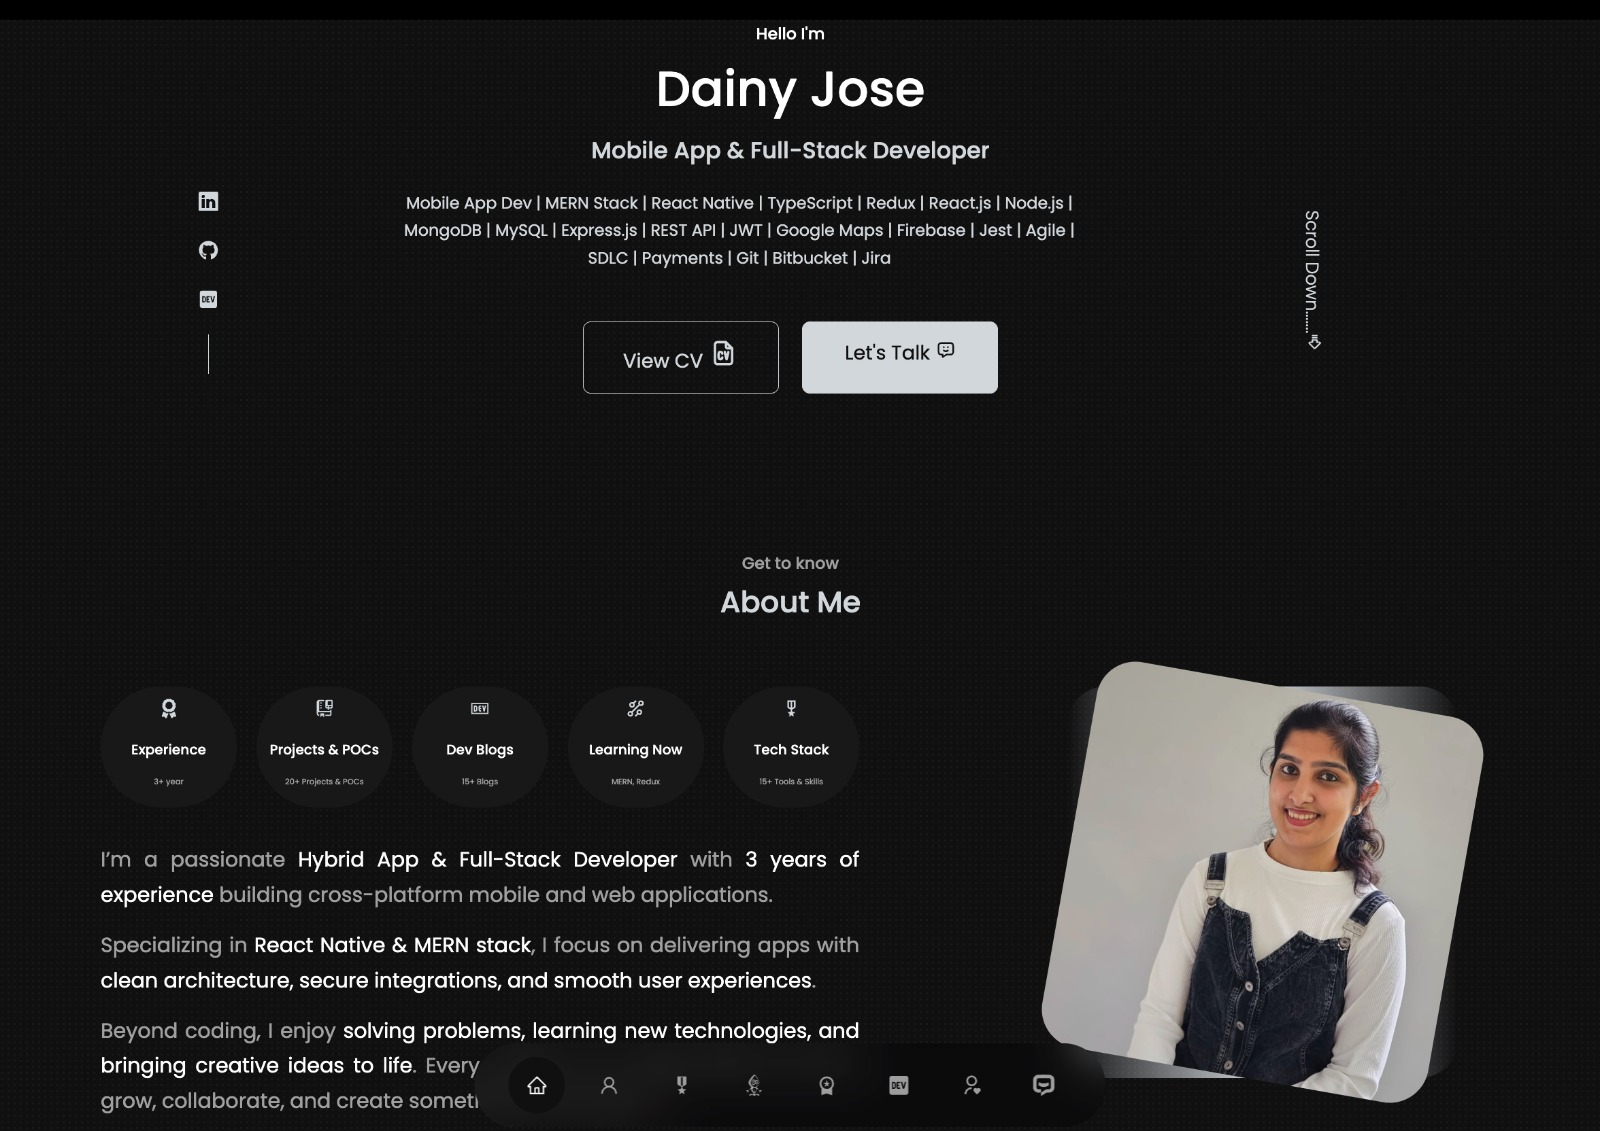
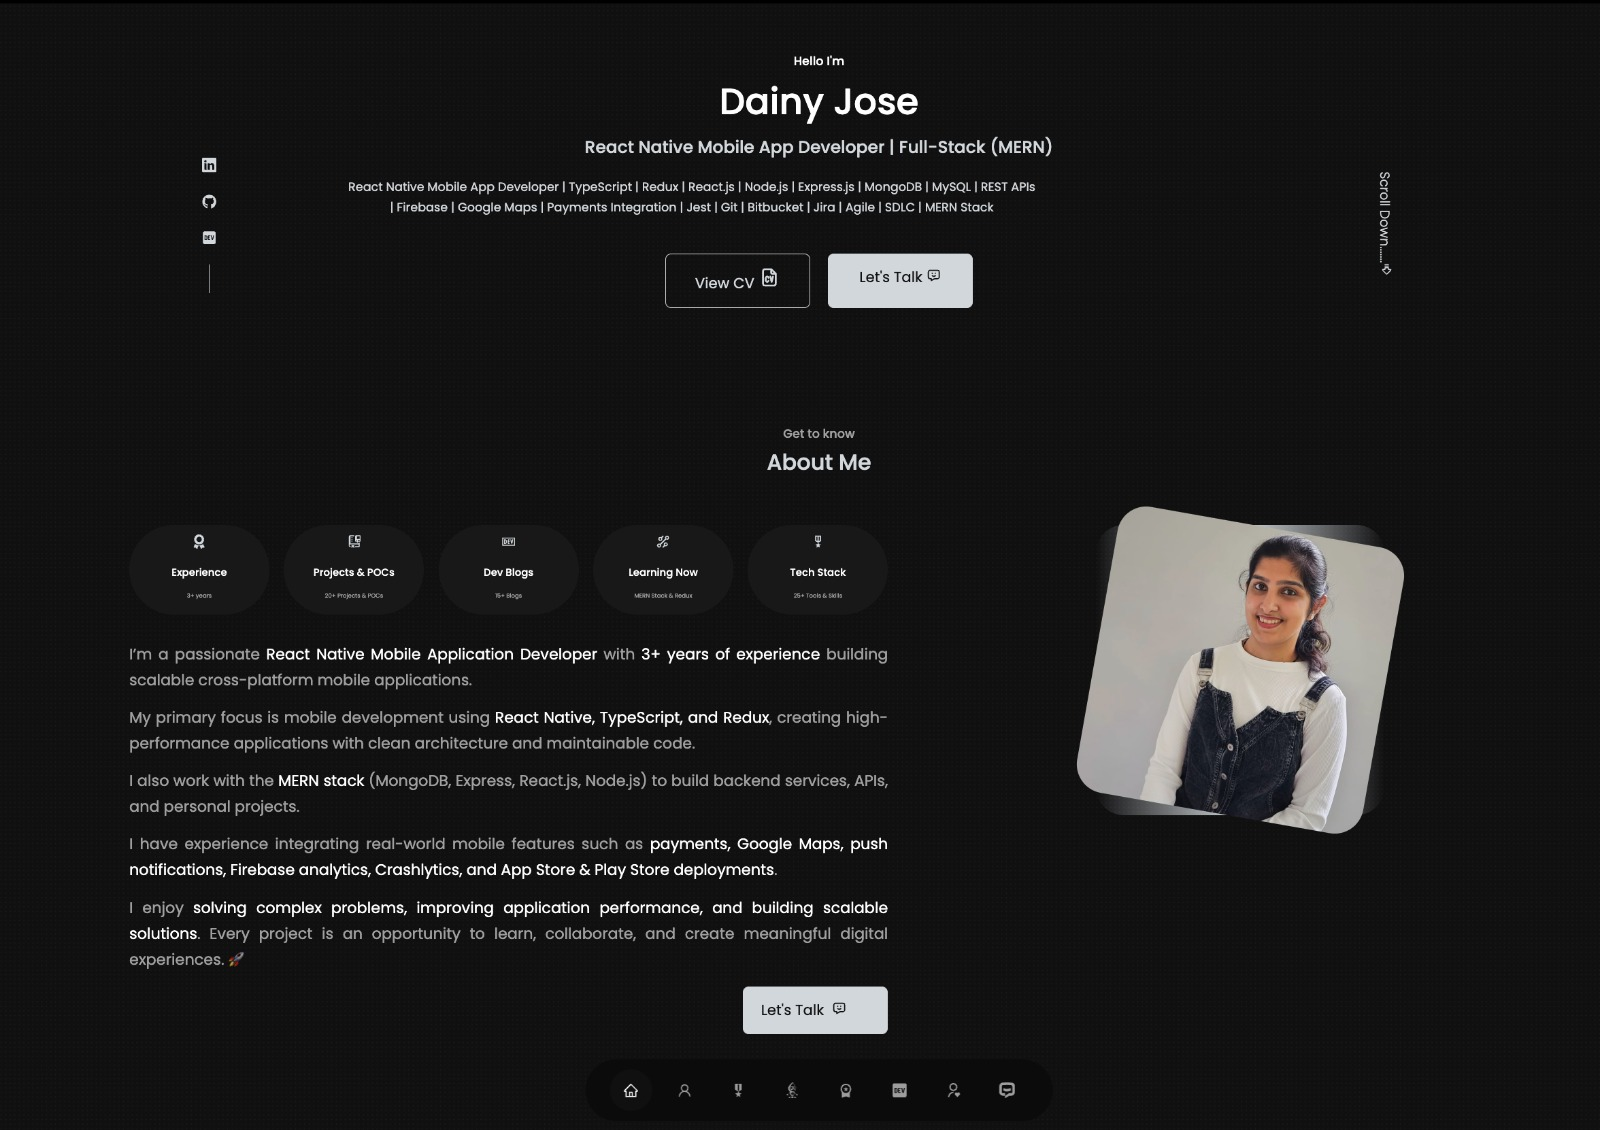
refactor: tech skills section and prioritize mobile development technologies

diff --git a/src/components/About/About.tsx b/src/components/About/About.tsx
@@ -18,7 +18,7 @@ const About = () => {
             <article className="about__card">
               <FaAward className="about__icon" />
               <h5>Experience</h5>
-              <small>3+ year</small>
+              <small>3+ years</small>
             </article>
             <article className="about__card">
               <VscRepoClone className="about__icon" />
@@ -34,9 +34,8 @@ const About = () => {
             </article>
             <article className="about__card learning">
               <GrTechnology className="about__icon" />
-
               <h5>Learning Now</h5>
-              <small>MERN, Redux</small>
+              <small>MERN Stack & Redux</small>
             </article>
             <article className="about__card">
               <MdOutlineMilitaryTech className="about__icon" />
@@ -49,46 +48,51 @@ const About = () => {
             <p>
               I’m a passionate{" "}
               <span className="highlight">
-                Hybrid App & Full-Stack Developer
+                React Native Mobile Application Developer
               </span>{" "}
-              with
-              <span className="highlight"> 3 years of experience</span> building
-              cross-platform mobile and web applications.
+              with <span className="highlight">3+ years of experience</span>{" "}
+              building scalable cross-platform mobile applications.
+            </p>
+
+            <p>
+              My primary focus is mobile development using{" "}
+              <span className="highlight">
+                React Native, TypeScript, and Redux
+              </span>
+              , creating high-performance applications with clean architecture
+              and maintainable code.
+            </p>
+
+            <p>
+              I also work with the <span className="highlight">MERN stack</span>{" "}
+              (MongoDB, Express, React.js, Node.js) to build backend services,
+              APIs, and personal projects.
             </p>
             <p>
-              Specializing in{" "}
-              <span className="highlight">React Native & MERN stack</span>, I
-              focus on delivering apps with{" "}
+              I have experience integrating real-world mobile features such as{" "}
               <span className="highlight">
-                clean architecture, secure integrations, and smooth user
-                experiences
+                payments, Google Maps, push notifications, Firebase analytics,
+                Crashlytics, and App Store & Play Store deployments
               </span>
               .
             </p>
             <p>
-              Beyond coding, I enjoy{" "}
+              I enjoy{" "}
               <span className="highlight">
-                solving problems, learning new technologies, and bringing
-                creative ideas to life
+                solving complex problems, improving application performance, and
+                building scalable solutions
               </span>
-              . Every project is an opportunity for me to grow, collaborate, and
-              create something meaningful. 🚀
+              . Every project is an opportunity to learn, collaborate, and
+              create meaningful digital experiences. 🚀
             </p>
           </div>
-          <a
-            href="#contact"
-            className="btn btn-primary about_contact"
-          >
-            Let's Talk...
-            <TbMessageChatbot className="icon" />
+          <a href="#contact" className="btn btn-primary about_contact">
+            Let's Talk <TbMessageChatbot className="icon" />
           </a>
         </div>
         <div className="about__me">
           <div className="about__me-image">
-            <img
-              src={ME}
-              alt="me"
-            />
+            <img src={ME} alt="me" />
           </div>
         </div>
       </div>

diff --git a/src/components/TechSkills/TechSkills.tsx b/src/components/TechSkills/TechSkills.tsx
@@ -46,43 +46,36 @@ import "./TechSkills.css";
 
 const TechSkills = () => {
   const techStack = [
-    // 🔹 Core Frontend & Mobile
-    { icon: <DiReact />, name: "React / React Native" },
+    // 🔹 Mobile Development (Highest Priority)
+    { icon: <DiReact />, name: "React Native" },
     { icon: <SiTypescript />, name: "TypeScript" },
     { icon: <DiJavascript1 />, name: "JavaScript" },
     { icon: <SiRedux />, name: "Redux" },
-    { icon: <SiHtml5 />, name: "HTML" },
-    { icon: <SiCss3 />, name: "CSS" },
     { icon: <SiExpo />, name: "Expo" },
-    { icon: <SiVite />, name: "Vite" },
 
-    // 🔹 Backend
+    // 🔹 Backend & APIs
     { icon: <DiNodejs />, name: "Node.js" },
     { icon: <SiExpress />, name: "Express.js" },
-    { icon: <SiPython />, name: "Python" },
     { icon: <SiFirebase />, name: "Firebase" },
     { icon: <SiCloudinary />, name: "Cloudinary" },
 
     // 🔹 Database
     { icon: <DiMongodb />, name: "MongoDB" },
     { icon: <SiMysql />, name: "MySQL / SQL" },
-    { icon: <SiXampp />, name: "XAMPP" },
 
     // 🔹 Testing
     { icon: <SiJest />, name: "Jest" },
 
-    // 🔹 Tools & Collaboration
+    // 🔹 Development Tools
     { icon: <DiGit />, name: "Git / Git Bash" },
-    { icon: <SiNpm />, name: "npm" },
-    { icon: <SiBun />, name: "Bun" },
-    { icon: <SiBitbucket />, name: "Bitbucket" },
     { icon: <SiPostman />, name: "Postman" },
-    { icon: <SiJira />, name: "Jira" },
-    { icon: <SiFigma />, name: "Figma" },
-    { icon: <SiDocker />, name: "Docker" },
+    { icon: <SiBitbucket />, name: "Bitbucket" },
     { icon: <VscVscode />, name: "VS Code" },
     { icon: <SiAndroidstudio />, name: "Android Studio" },
     { icon: <SiXcode />, name: "Xcode" },
+    { icon: <SiJira />, name: "Jira" },
+    { icon: <SiFigma />, name: "Figma" },
+    { icon: <SiNpm />, name: "npm" },
 
     // 🔹 Deployment & Hosting
     { icon: <SiHeroku />, name: "Heroku" },
@@ -90,27 +83,23 @@ const TechSkills = () => {
     { icon: <SiCloudflare />, name: "Cloudflare" },
     { icon: <SiCpanel />, name: "cPanel" },
 
-    // 🔹 Platforms & OS
+    // 🔹 Platforms
     { icon: <FaAndroid />, name: "Android" },
     { icon: <FaApple />, name: "iOS" },
     { icon: <ImWindows />, name: "Windows" },
     { icon: <SiMacos />, name: "macOS" },
 
-    // 🔹 Deployment Stores
-    { icon: <FaGooglePlay />, name: "Play Store Deployment" },
-    { icon: <FaAppStoreIos />, name: "App Store Deployment" },
+    // 🔹 App Publishing
+    { icon: <FaGooglePlay />, name: "Google Play Console" },
+    { icon: <FaAppStoreIos />, name: "App Store Connect" },
   ];
-
   return (
     <section id="tech_skill">
       <h5>The Skills I Have</h5>
       <h2>Skills</h2>
       <div className=" container tech_skill-container">
         {techStack.map((tech, index) => (
-          <div
-            key={index}
-            className="tech-icons"
-          >
+          <div key={index} className="tech-icons">
             {tech.icon}
             <span className="tooltip">{tech.name}</span>
           </div>

diff --git a/src/components/header/Header.tsx b/src/components/header/Header.tsx
@@ -9,18 +9,17 @@ const Header = () => {
       <div className="container header__container">
         <h5>Hello I'm</h5>
         <h1>Dainy Jose</h1>
-        <h3 className="text-light">Mobile App & Full-Stack Developer</h3>
+        <h3 className="text-light">
+          React Native Mobile App Developer | Full-Stack (MERN)
+        </h3>
         <h5 className="text-light header_tech_skill">
-          Mobile App Dev | MERN Stack | React Native | TypeScript | Redux |
-          React.js | Node.js | MongoDB | MySQL | Express.js | REST API | JWT |
-          Google Maps | Firebase | Jest | Agile | SDLC | Payments | Git |
-          Bitbucket | Jira
+          React Native Mobile App Developer | TypeScript | Redux | React.js |
+          Node.js | Express.js | MongoDB | MySQL | REST APIs | Firebase | Google
+          Maps | Payments Integration | Jest | Git | Bitbucket | Jira | Agile |
+          SDLC | MERN Stack
         </h5>
         <HeaderResume />
-        <a
-          href="#contact"
-          className="scroll__down"
-        >
+        <a href="#contact" className="scroll__down">
           Scroll Down.......
           <TbArrowBigRightLines />
         </a>
